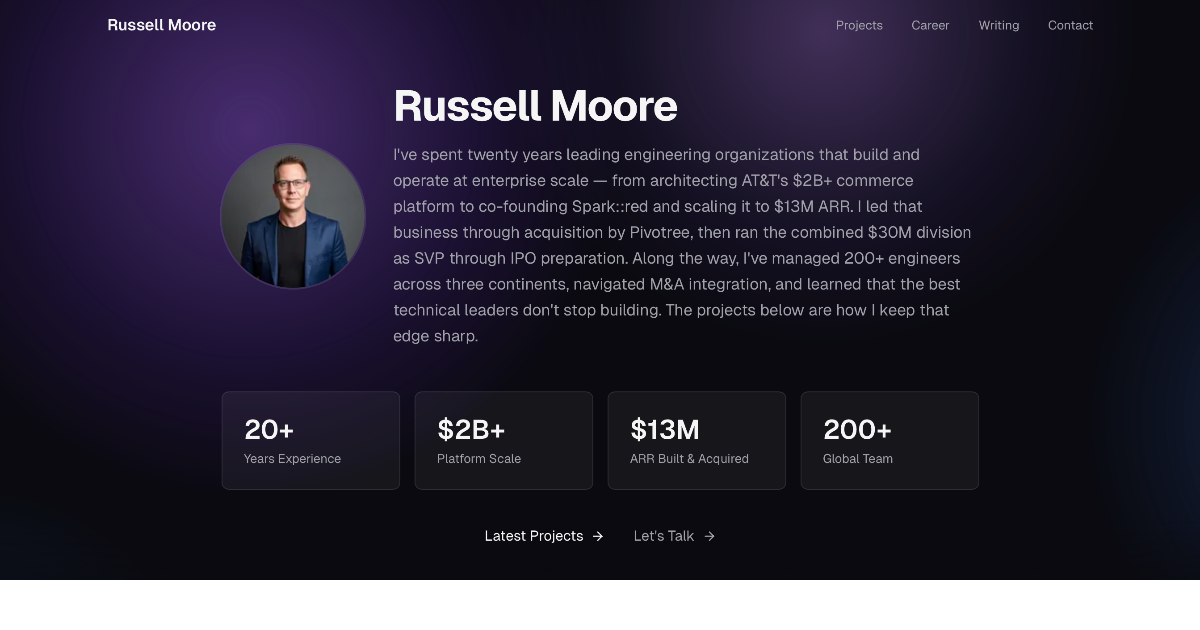
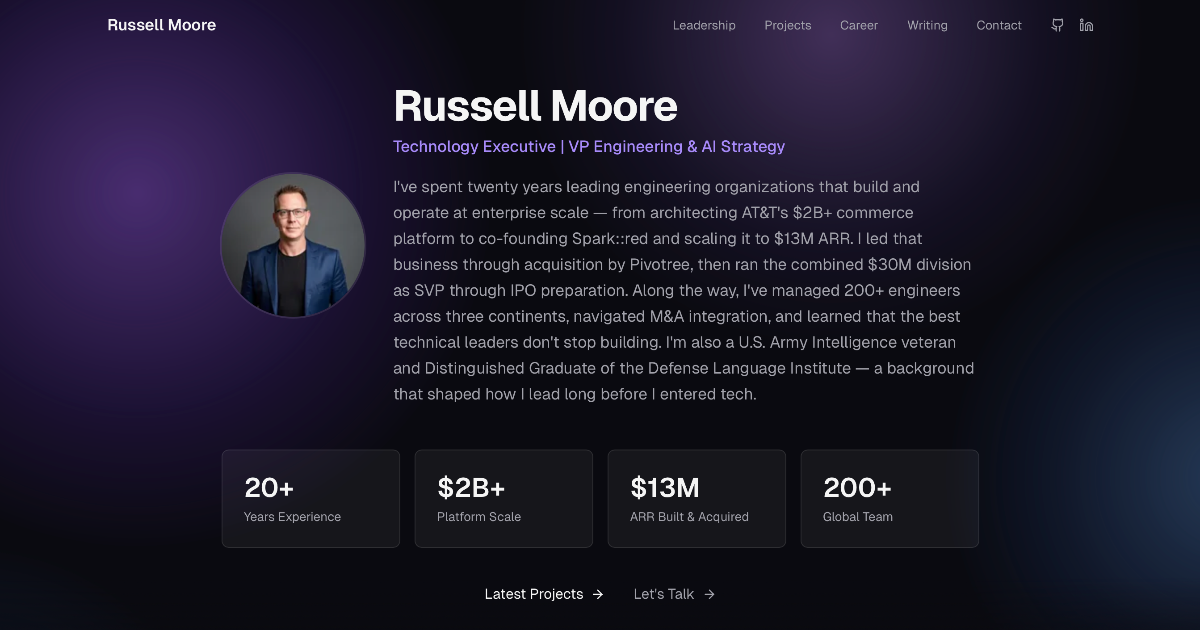
site improvements - hero/leadership

diff --git a/src/content/writing/multi-model-orchestration.md b/src/content/writing/multi-model-orchestration.md
@@ -1,7 +1,7 @@
 ---
 title: "Five Models, Five Jobs: Multi-Model Orchestration on Cloudflare Workers"
 description: "Why a single model can't do everything well, and how I route across five different models based on task requirements in a production AI application."
-pubDate: 2026-03-24
+pubDate: 2026-03-10
 tags: ["AI", "Architecture", "Cloudflare Workers"]
 draft: false
 ---

diff --git a/src/content/writing/composable-commerce-ai.md b/src/content/writing/composable-commerce-ai.md
@@ -1,7 +1,7 @@
 ---
 title: "Composable Commerce in the AI Era"
 description: "How twenty years of e-commerce platform evolution led to a moment where AI agents are the next composable interface — and what that means for platform builders."
-pubDate: 2026-03-22
+pubDate: 2026-02-10
 tags: ["AI", "Commerce", "Architecture", "MCP"]
 draft: false
 ---

diff --git a/src/content/writing/llm-tool-calling-cost.md b/src/content/writing/llm-tool-calling-cost.md
@@ -1,7 +1,7 @@
 ---
 title: "The Real Cost of LLM Tool Calling"
 description: "What I learned building guardrails around tool-calling models that narrate instead of act, log data on hypothetical questions, and get stuck in infinite loops."
-pubDate: 2026-03-25
+pubDate: 2026-03-19
 tags: ["AI", "Architecture", "Cloudflare Workers"]
 draft: false
 ---

diff --git a/src/content/writing/executives-who-ship-code.md b/src/content/writing/executives-who-ship-code.md
@@ -1,7 +1,7 @@
 ---
 title: "The Case for Executives Who Still Ship Code"
 description: "Why hands-on technical work makes you a better leader, not a worse one — and how the industry got this backwards."
-pubDate: 2026-03-23
+pubDate: 2026-02-24
 tags: ["Leadership", "Engineering Culture"]
 draft: false
 ---
